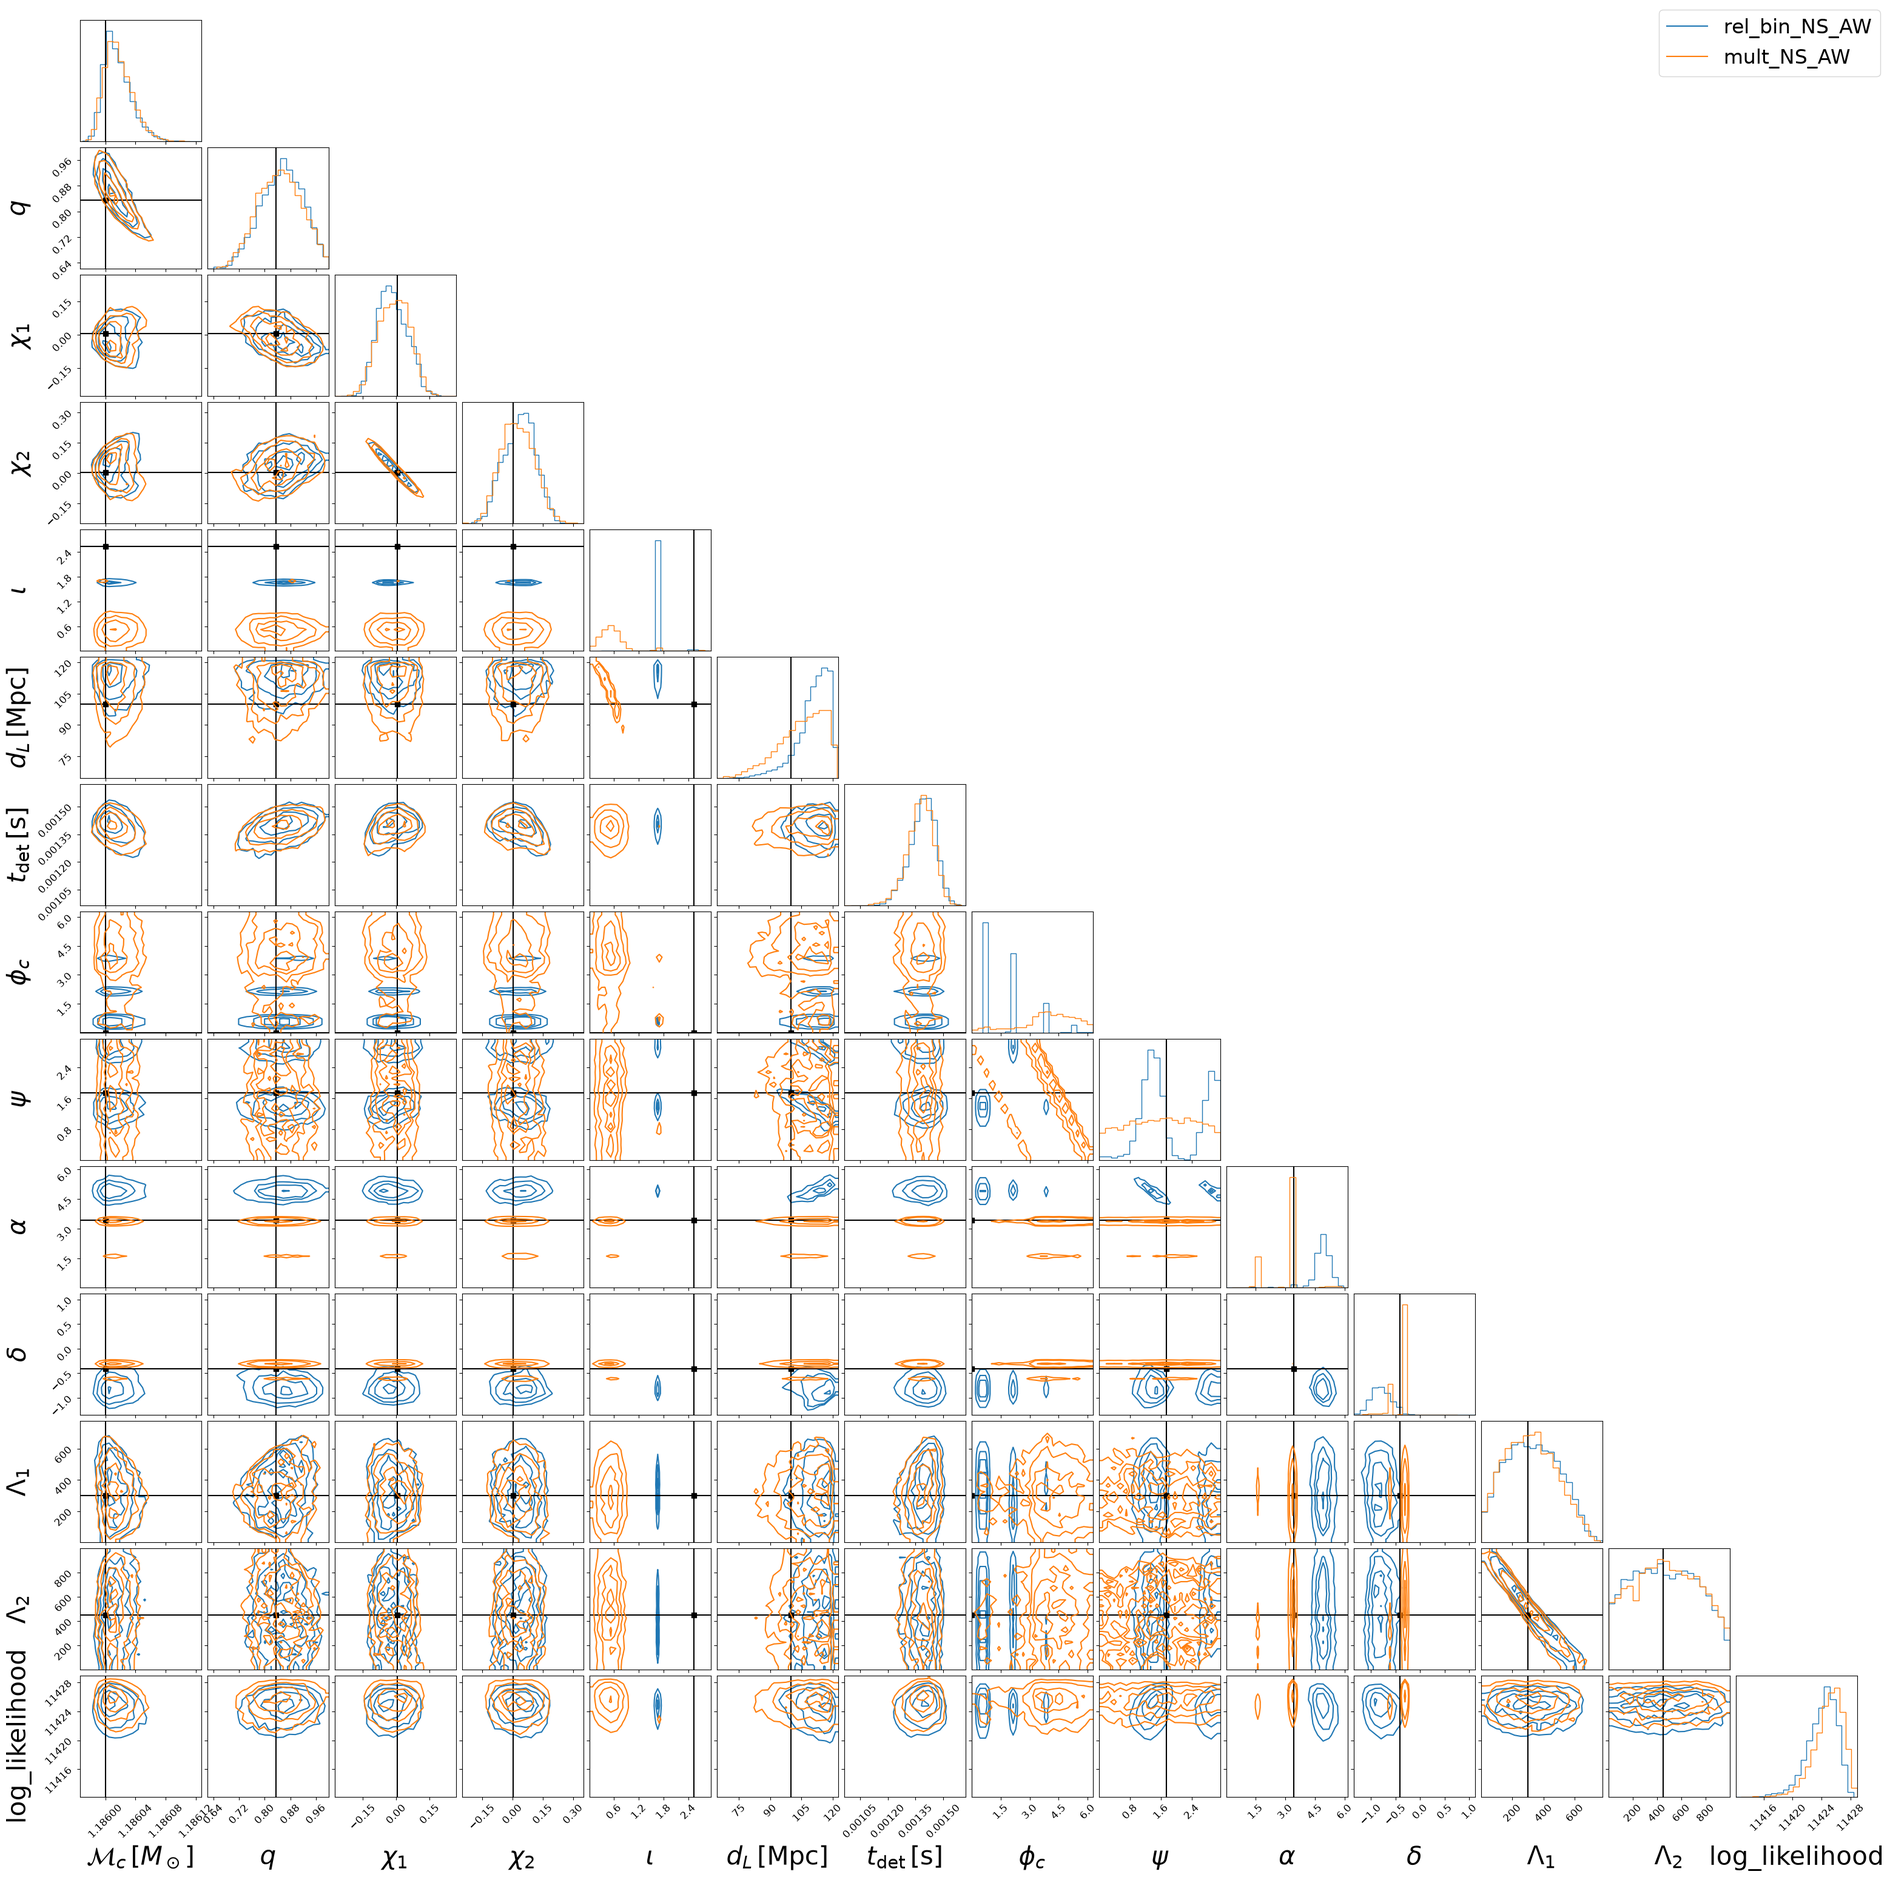
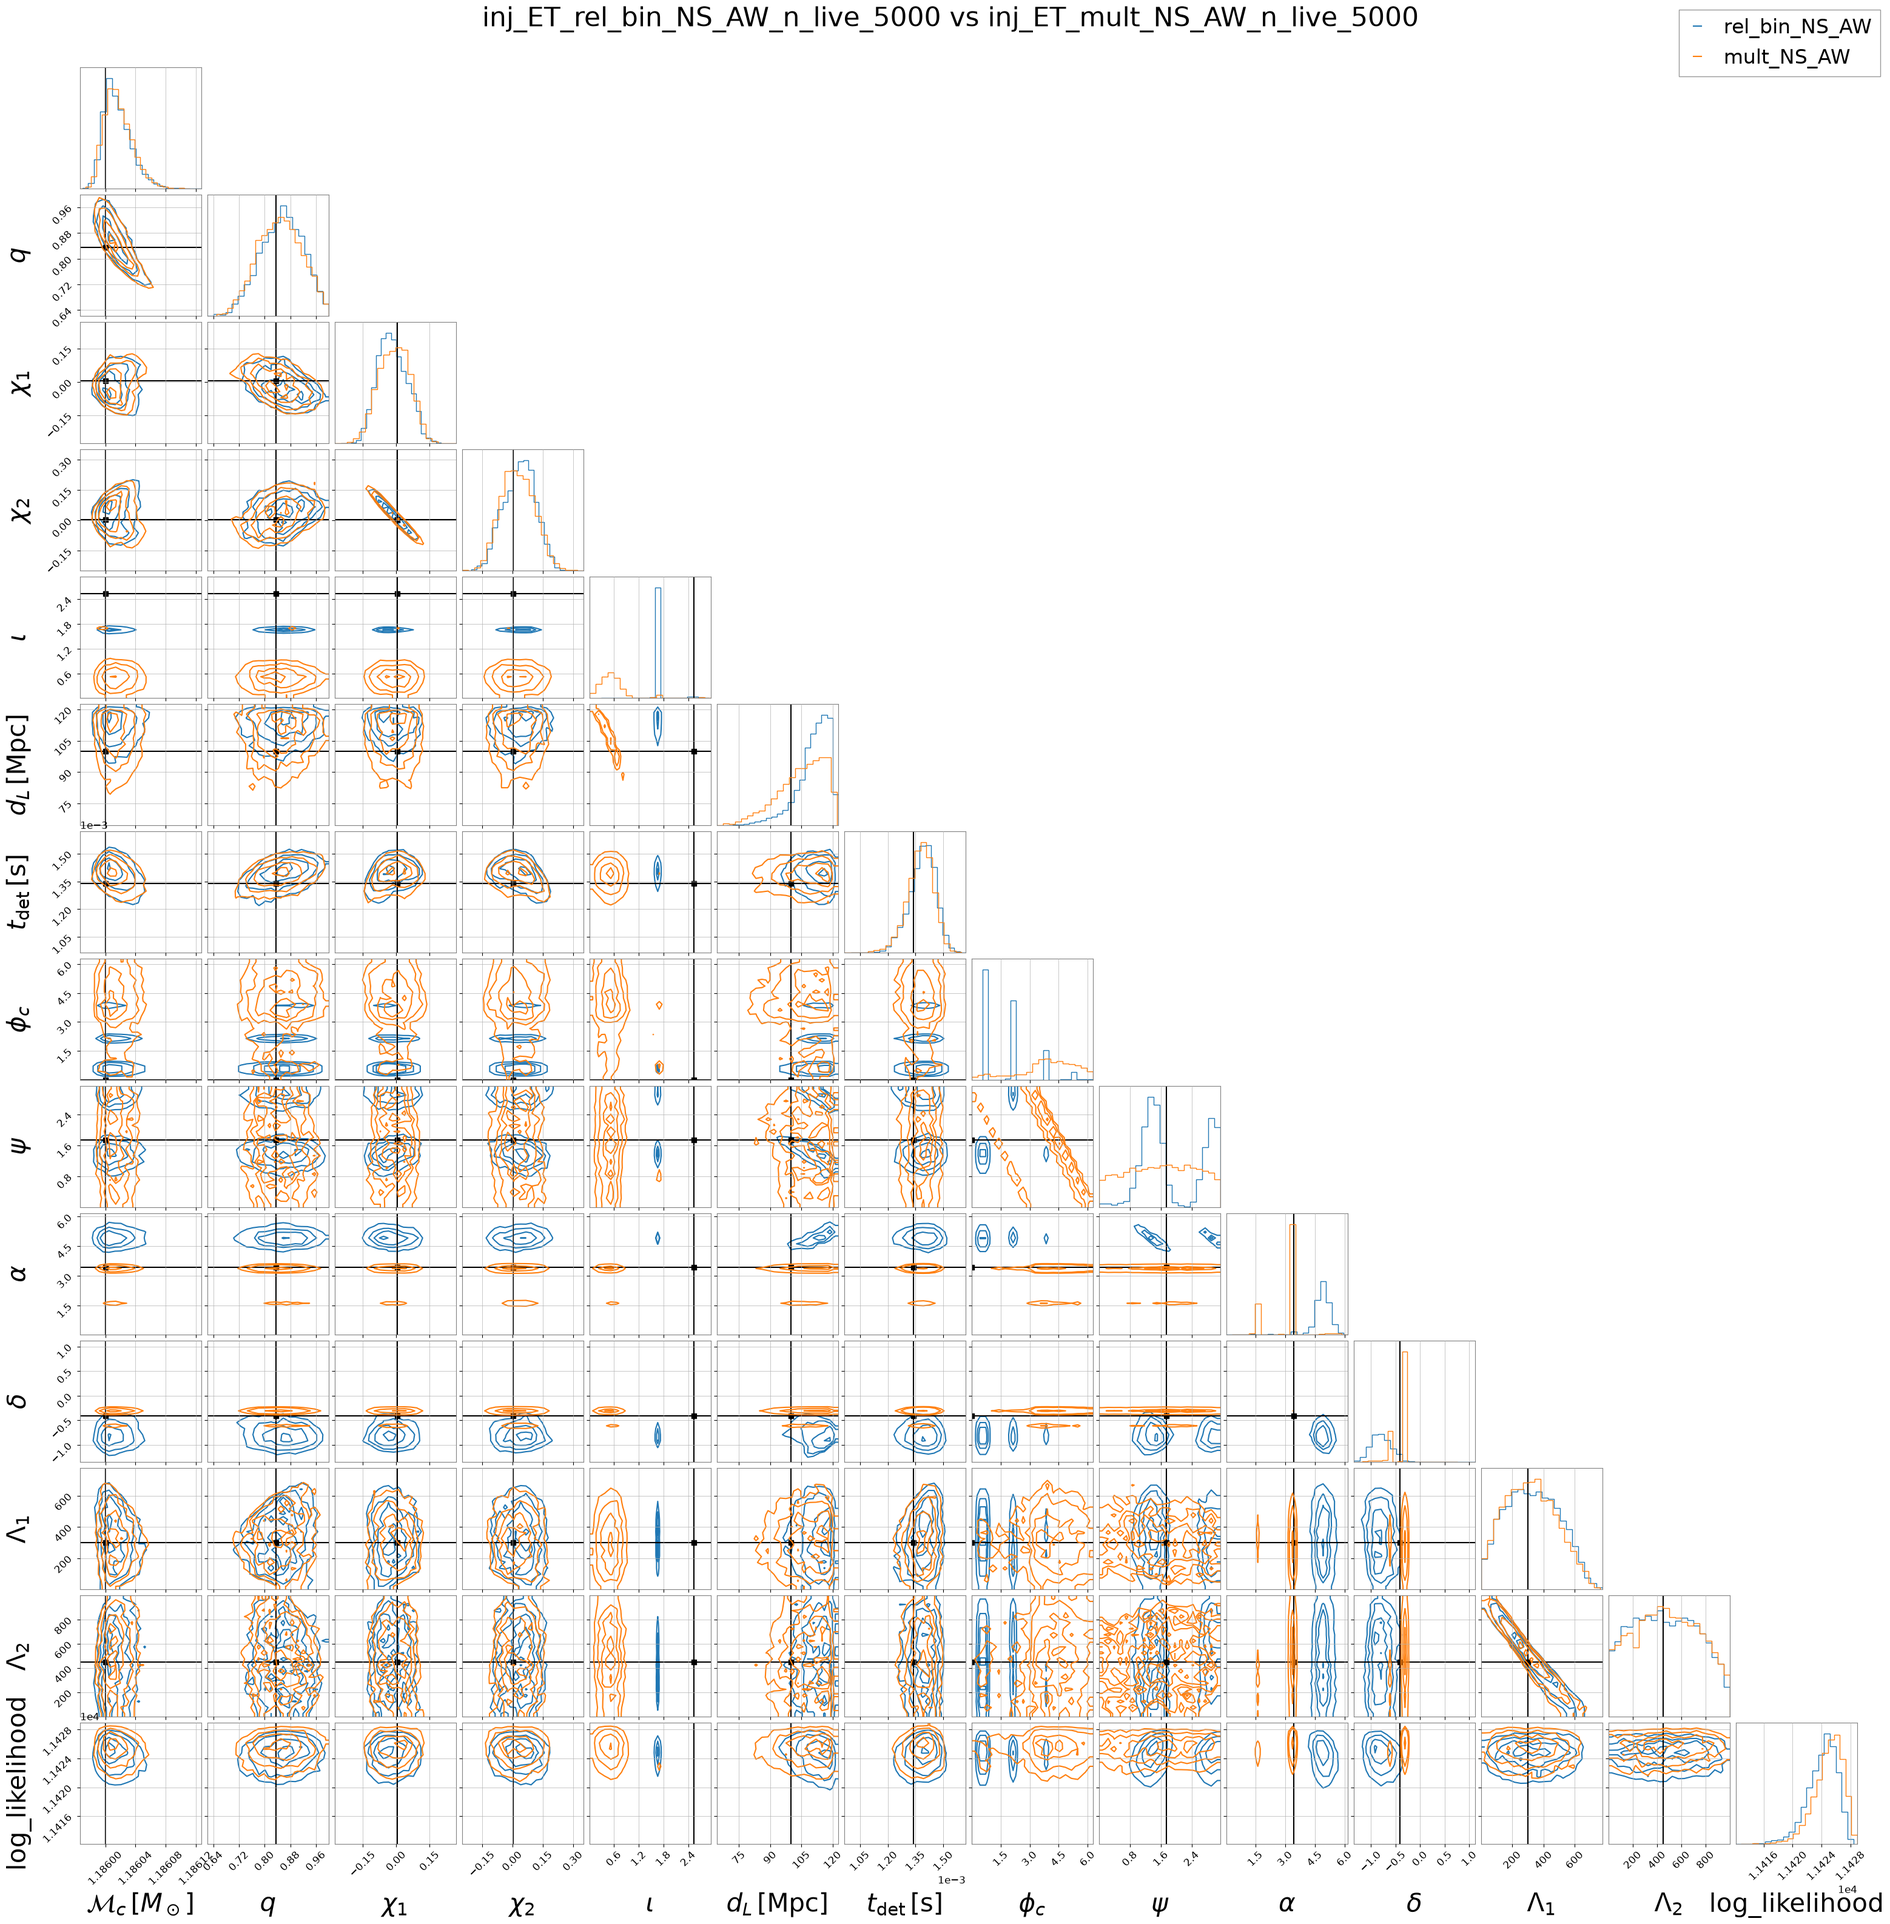
yes

diff --git a/Otmar_Thesis/tools/plot_corner.py b/Otmar_Thesis/tools/plot_corner.py
@@ -5,6 +5,10 @@ Each argument is a run directory containing samples.npz (and config.final.toml).
     python plot_corner.py DATA/run1
     python plot_corner.py DATA/run1 DATA/run2 --legend flowMC NS-AW --out compare.png
 """
+import jax 
+
+jax.config.update('jax_enable_x64', True)
+
 import argparse
 import tomllib
 from pathlib import Path
@@ -15,6 +19,13 @@ import numpy as np
 
 matplotlib.use("Agg")
 from matplotlib.lines import Line2D
+import jax.numpy as jnp
+from jimgw.core.single_event.detector import get_ET
+from jimgw.core.single_event.transforms import (
+    GeocentricArrivalTimeToDetectorArrivalTimeTransform,
+)
+
+
 
 LABELS = {
     "M_c": r"$\mathcal{M}_c\,[M_\odot]$", "q": r"$q$", "s1_z": r"$\chi_1$",
@@ -48,10 +59,21 @@ truths = None
 config = dirs[0] / "config.final.toml"
 if config.is_file():
     with open(config, "rb") as f:
-        inj = tomllib.load(f)["data"]["injection_parameters"]
+        cfg = tomllib.load(f)                      # load once
+    inj = cfg["data"]["injection_parameters"]
     eta = inj["eta"]
     inj["q"] = (1 - 2 * eta - np.sqrt(1 - 4 * eta)) / (2 * eta)
-    truths = [inj.get(k) for k in names]  # None = no line (e.g. t_det)
+
+    if "t_det" in names and "t_det" not in inj:
+        trigger_time = cfg["data"]["trigger_time"]
+        ifos = get_ET()
+        t_transform = GeocentricArrivalTimeToDetectorArrivalTimeTransform(
+            trigger_time=trigger_time, ifo=ifos[0]
+        )
+        p = {k: jnp.float64(v) for k, v in inj.items()}   # needs t_c, ra, dec
+        inj["t_det"] = float(t_transform.forward(p)["t_det"])
+
+    truths = [inj.get(k) for k in names]  # None = no line
 
 fig = None
 for i, run in enumerate(runs):
@@ -67,7 +89,9 @@ for i, run in enumerate(runs):
 # tick numbers on every panel
 for ax in fig.axes:
     ax.tick_params(axis="both", labelsize=12)
-
+    
+title = " vs ".join(d.name for d in dirs)
+fig.suptitle(title, fontsize=32, y=1.02)
 fig.legend(handles=[Line2D([], [], color=f"C{i}", label=l) for i, l in enumerate(labels)],
            loc="upper right", fontsize=24)
 fig.savefig(args.out, dpi=100, bbox_inches="tight")
